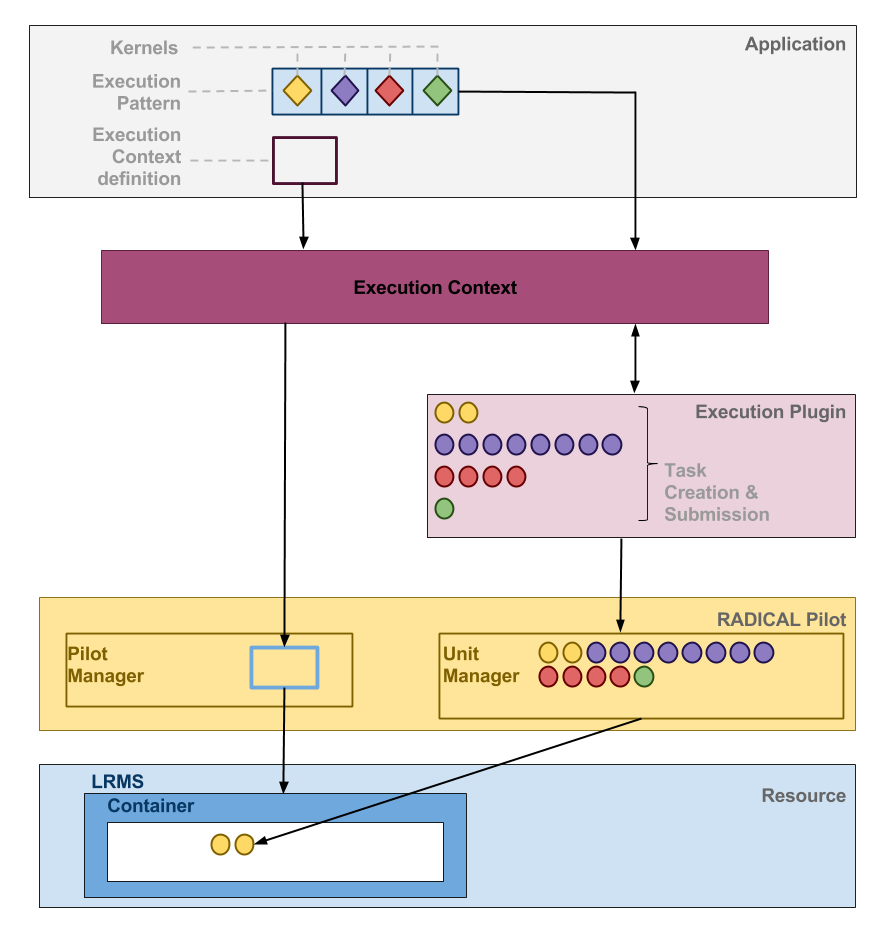
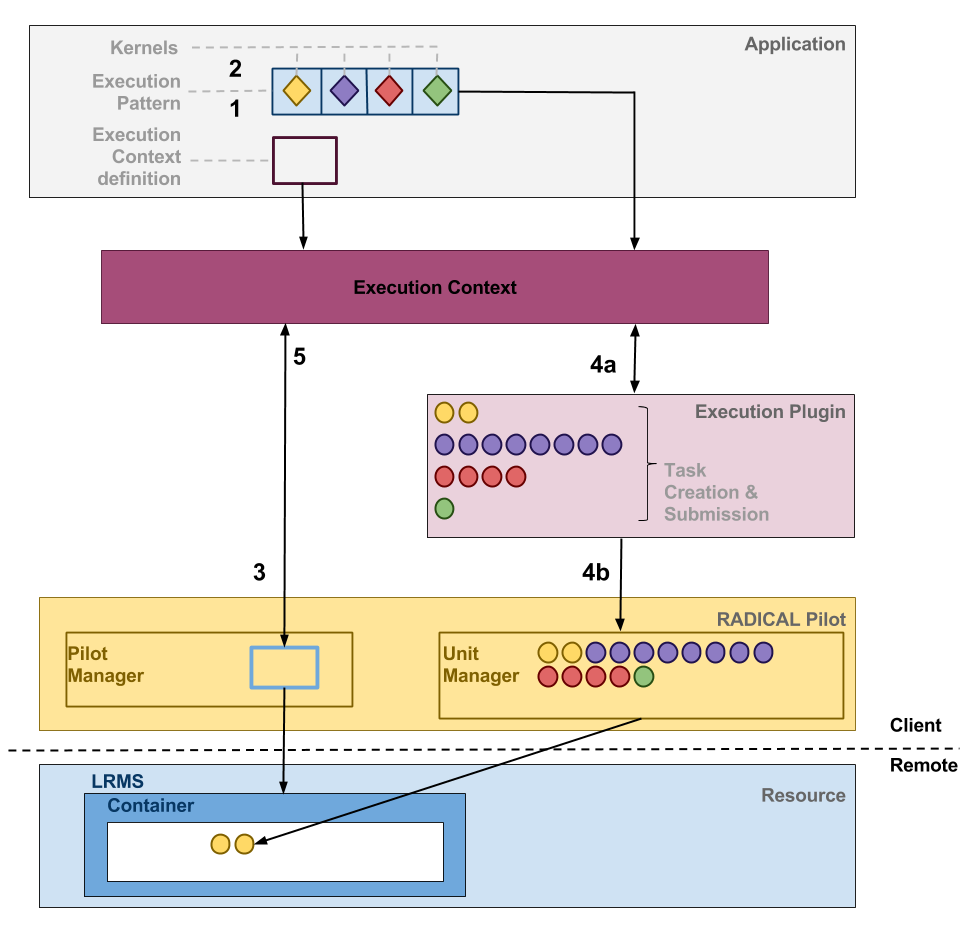
redo figure

diff --git a/doc/introduction.rst b/doc/introduction.rst
@@ -82,6 +82,8 @@ along various parameters: total time to completion, amount of data transferred, 
 Five steps to create an application
 =======================
 
+Each of the steps are labelled in Figure 1.
+
 1. User picks an execution pattern that best represents their application and create an instance/object of the pattern class.
 2. The various steps of the execution pattern can now be filled with Kernels: pre-defined or user-defined. These kernels also specify the data movement for that step.
 3. Users now create an execution context targetting a machine that would acquire a set of resources for a period of time.
